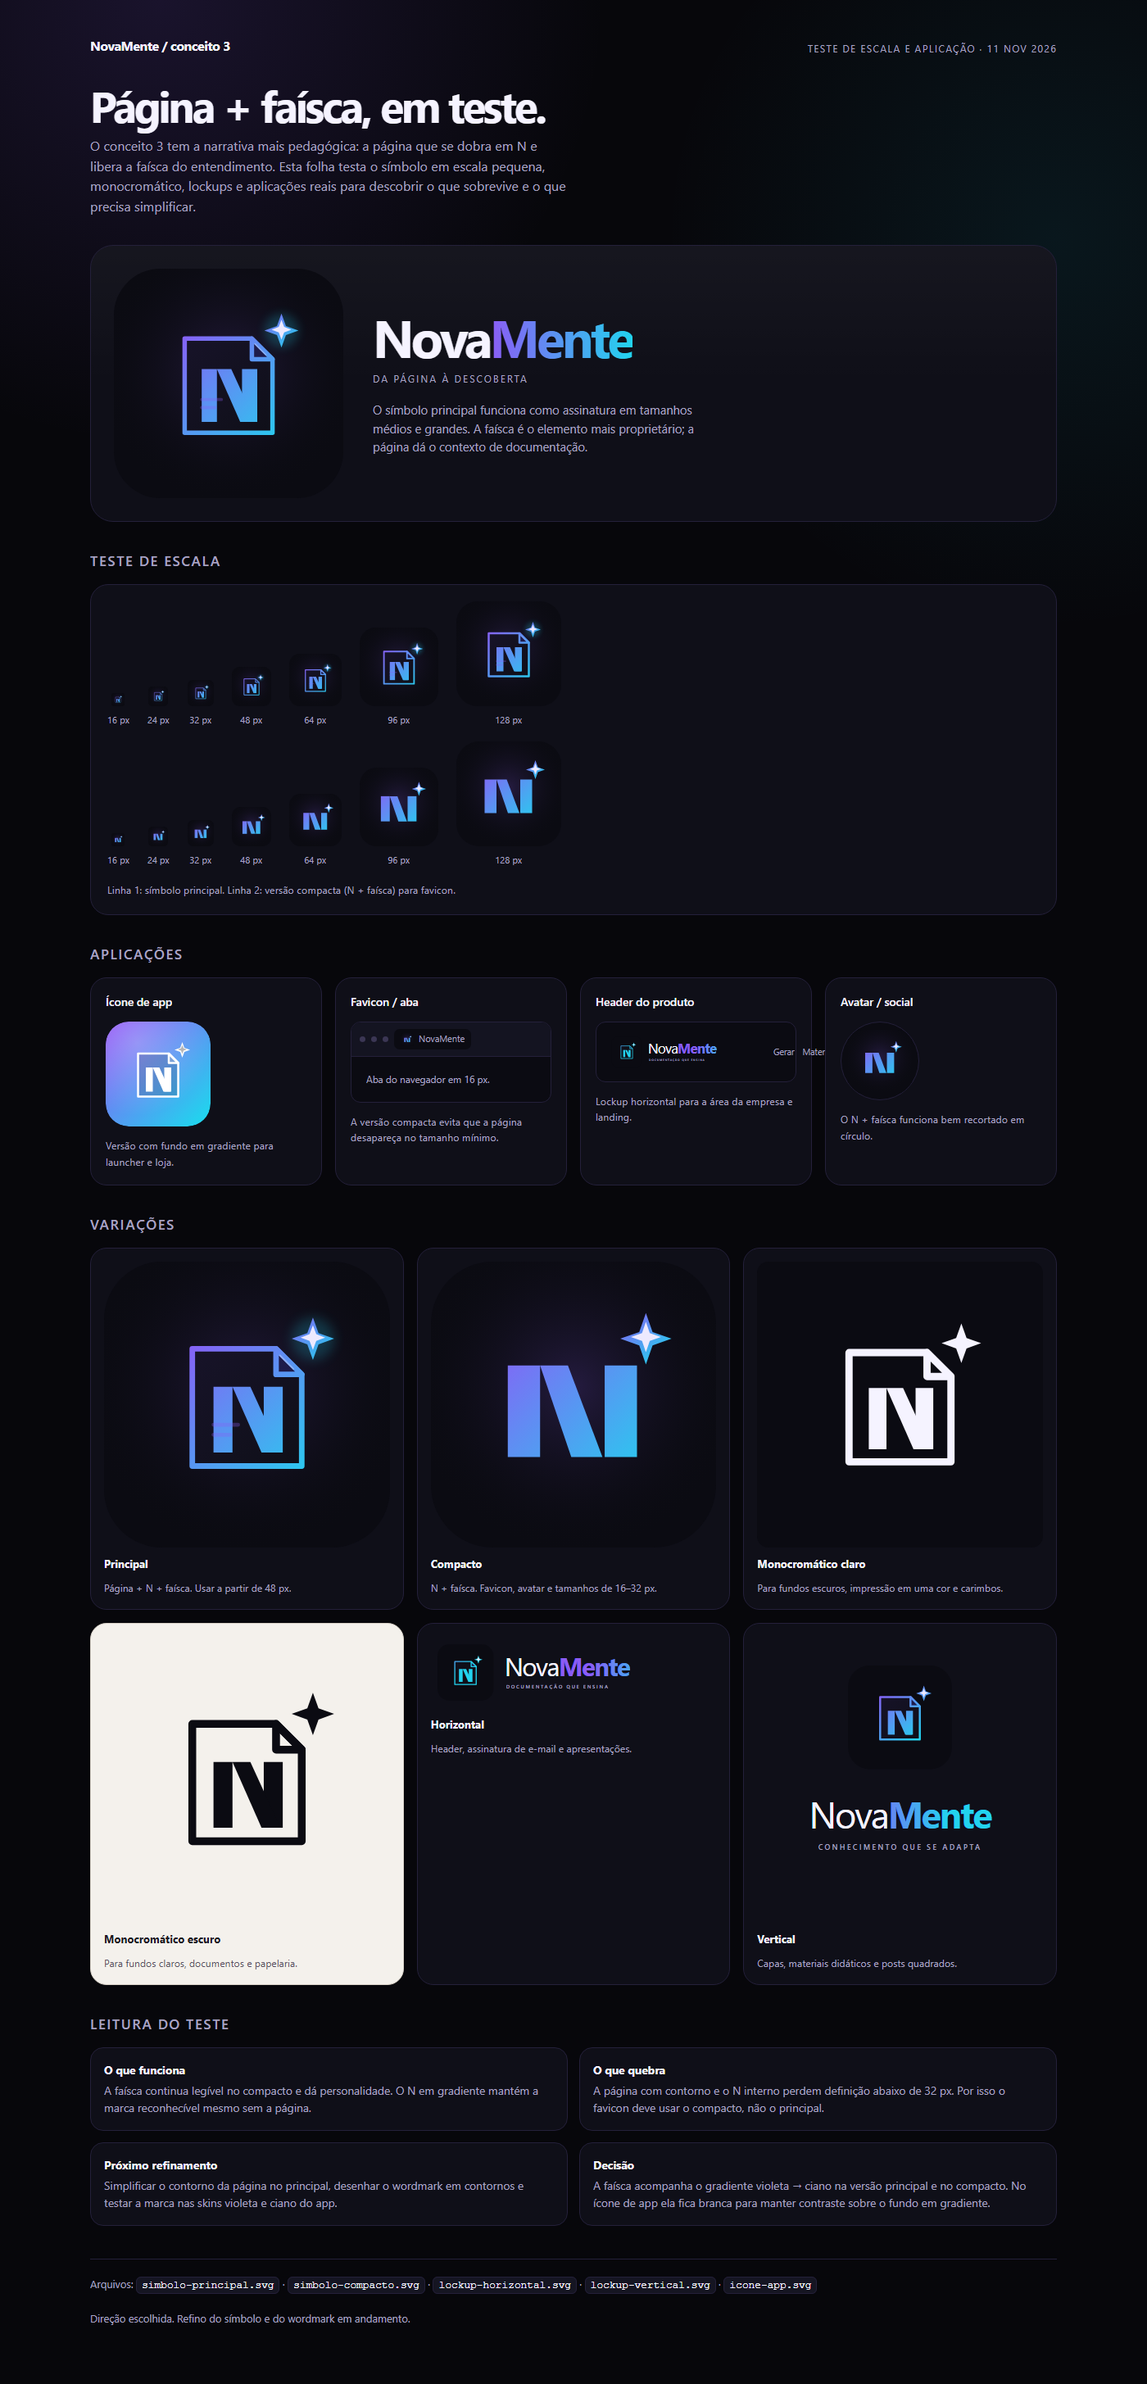
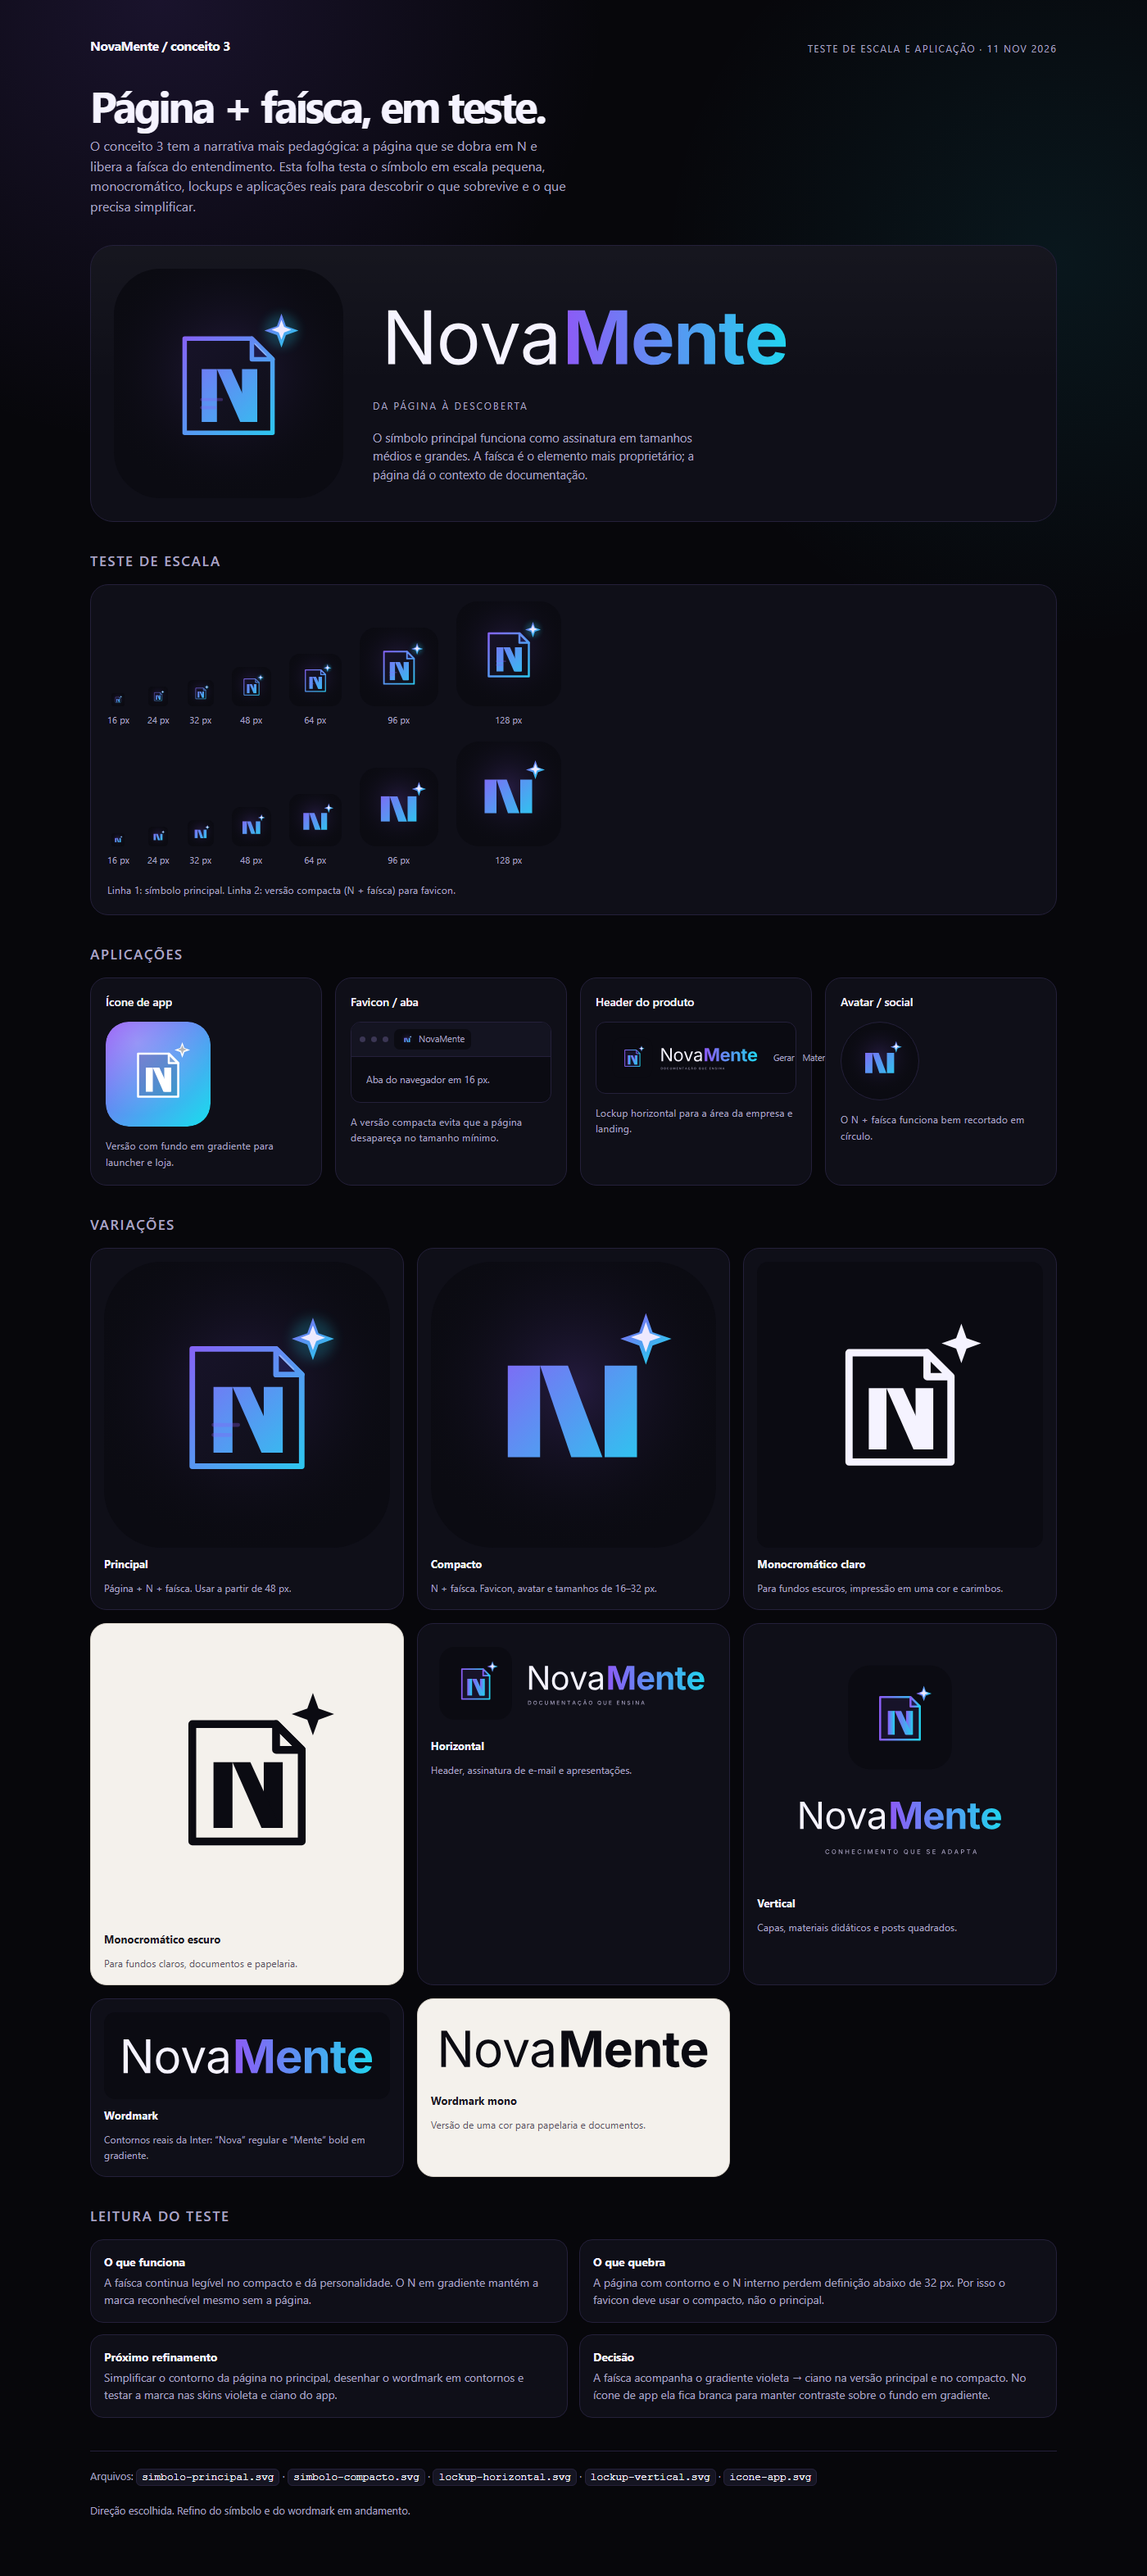
docs(brand): adiciona wordmark em contornos e atualiza lockups do conceito 3

diff --git a/docs/brand/preview/conceito-3/index.html b/docs/brand/preview/conceito-3/index.html
@@ -49,6 +49,7 @@
     }
     .hero img { width: 100%; display: block; }
     .hero .wordmark { font-size: clamp(2.2rem, 5vw, 4rem); font-weight: 650; letter-spacing: -.06em; line-height: 1; }
+    .hero .wordmark-img { width: min(100%, 520px); height: auto; display: block; }
     .hero .grad, .grad {
       background: linear-gradient(90deg, var(--violet), var(--cyan));
       -webkit-background-clip: text; background-clip: text; color: transparent;
@@ -137,7 +138,7 @@
     <div class="hero">
       <img src="simbolo-principal.svg" alt="Símbolo principal do conceito 3" />
       <div>
-        <div class="wordmark"><span>Nova</span><span class="grad">Mente</span></div>
+        <img class="wordmark-img" src="wordmark.svg" alt="Wordmark NovaMente" />
         <div class="tagline">Da página à descoberta</div>
         <p class="nota">
           O símbolo principal funciona como assinatura em tamanhos médios e grandes. A faísca é o
@@ -237,6 +238,16 @@
           <img src="lockup-vertical.svg" alt="Lockup vertical" />
           <h3>Vertical</h3>
           <p>Capas, materiais didáticos e posts quadrados.</p>
+        </div>
+        <div class="variacao">
+          <div class="fundo-escuro"><img src="wordmark.svg" alt="Wordmark NovaMente" /></div>
+          <h3>Wordmark</h3>
+          <p>Contornos reais da Inter: “Nova” regular e “Mente” bold em gradiente.</p>
+        </div>
+        <div class="variacao claro">
+          <img src="wordmark-mono-escuro.svg" alt="Wordmark monocromático escuro" />
+          <h3>Wordmark mono</h3>
+          <p>Versão de uma cor para papelaria e documentos.</p>
         </div>
       </div>
     </section>

diff --git a/docs/brand/preview/conceito-3/README.md b/docs/brand/preview/conceito-3/README.md
@@ -10,9 +10,14 @@ Kit de teste do conceito escolhido para exploração. **Abra `index.html`** para
 | `simbolo-compacto.svg` | N + faísca, para favicon, avatar e 16–32 px |
 | `simbolo-mono-claro.svg` | Monocromático claro, para fundos escuros |
 | `simbolo-mono-escuro.svg` | Monocromático escuro, para fundos claros |
+| `wordmark.svg` | Wordmark “NovaMente” em contornos, com “Mente” em gradiente |
+| `wordmark-mono-claro.svg` | Wordmark monocromático claro |
+| `wordmark-mono-escuro.svg` | Wordmark monocromático escuro |
 | `lockup-horizontal.svg` | Símbolo + wordmark horizontal |
 | `lockup-vertical.svg` | Símbolo + wordmark vertical |
 | `icone-app.svg` | Ícone de aplicativo com fundo em gradiente |
+
+O wordmark foi convertido em **contornos reais** a partir da Inter variável já usada no app (SIL Open Font License), sem depender de fonte instalada.
 
 ## Decisão
 
@@ -32,7 +37,7 @@ Kit de teste do conceito escolhido para exploração. **Abra `index.html`** para
 ## Próximos passos
 
 1. Refinar a geometria da página e do N no símbolo principal.
-2. Desenhar o wordmark definitivo em contornos (não texto SVG).
+2. Validar o espaçamento/kerning do wordmark e a relação símbolo + texto.
 3. Testar a marca nas skins violeta e ciano do app.
 4. Fechar as regras de uso: margem de respiro, tamanho mínimo, fundos permitidos e versões proibidas.
 5. Produzir favicon `.ico`/PNG e os tamanhos de app icon.

diff --git a/docs/brand/preview/README.md b/docs/brand/preview/README.md
@@ -36,8 +36,8 @@ Decisão de cor: a faísca acompanha o gradiente violeta → ciano na versão pr
 ## Próximos passos sugeridos
 
 1. Refinar o símbolo em grid e testar em 16, 24, 32, 64 e 512 px.
-2. Criar o wordmark definitivo e as versões horizontal/vertical.
-3. Definir favicon, versão monocromática e aplicação nas skins violeta e ciano.
+2. Validar o espaçamento/kerning do wordmark em contornos.
+3. Testar a marca nas skins violeta e ciano do app.
 4. Documentar margem de respiro, tamanho mínimo e usos proibidos.
 
-> A direção está escolhida; os arquivos seguem em refinamento até o fechamento do wordmark.
+> O wordmark em contornos já está no kit; falta a validação de espaçamento e a aplicação nas telas.
